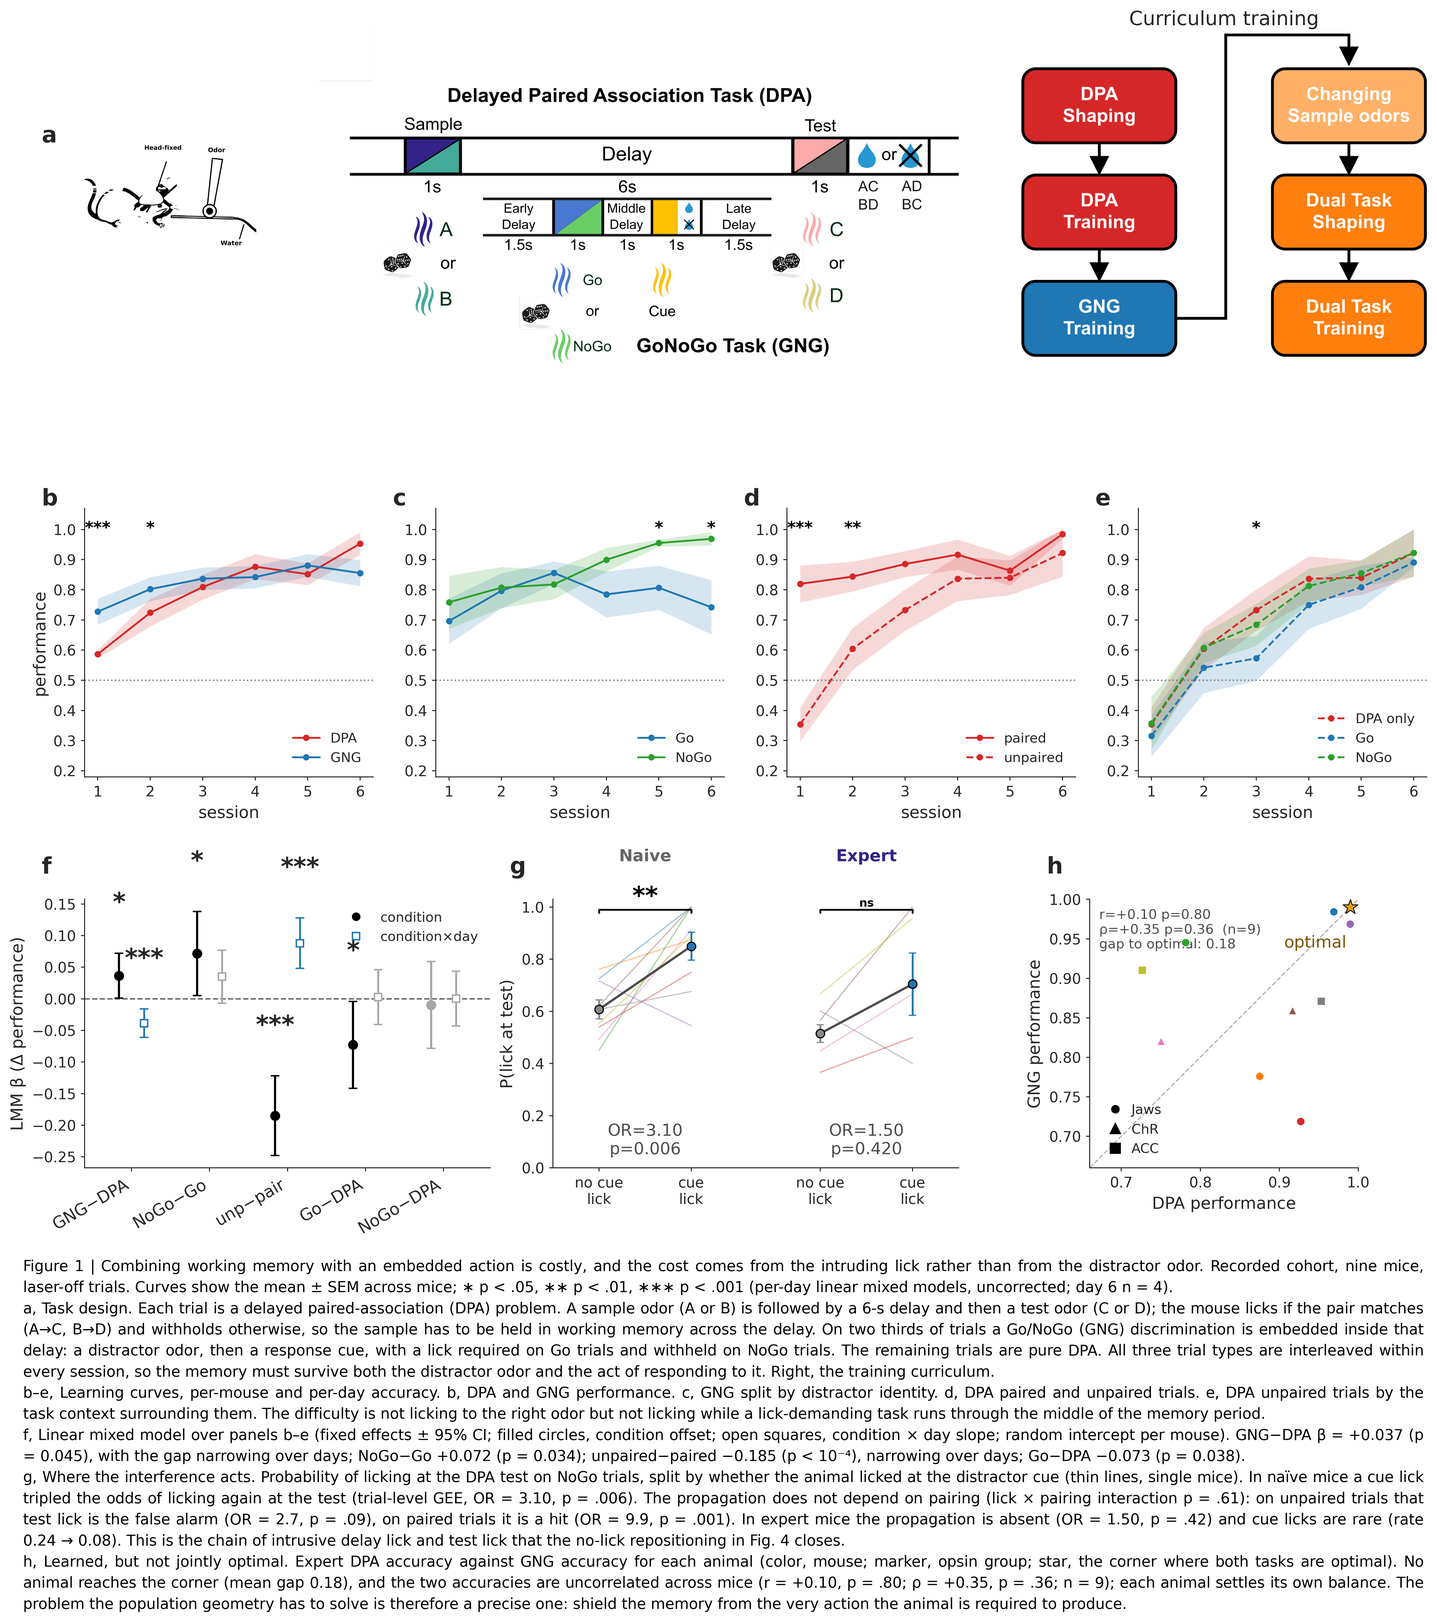
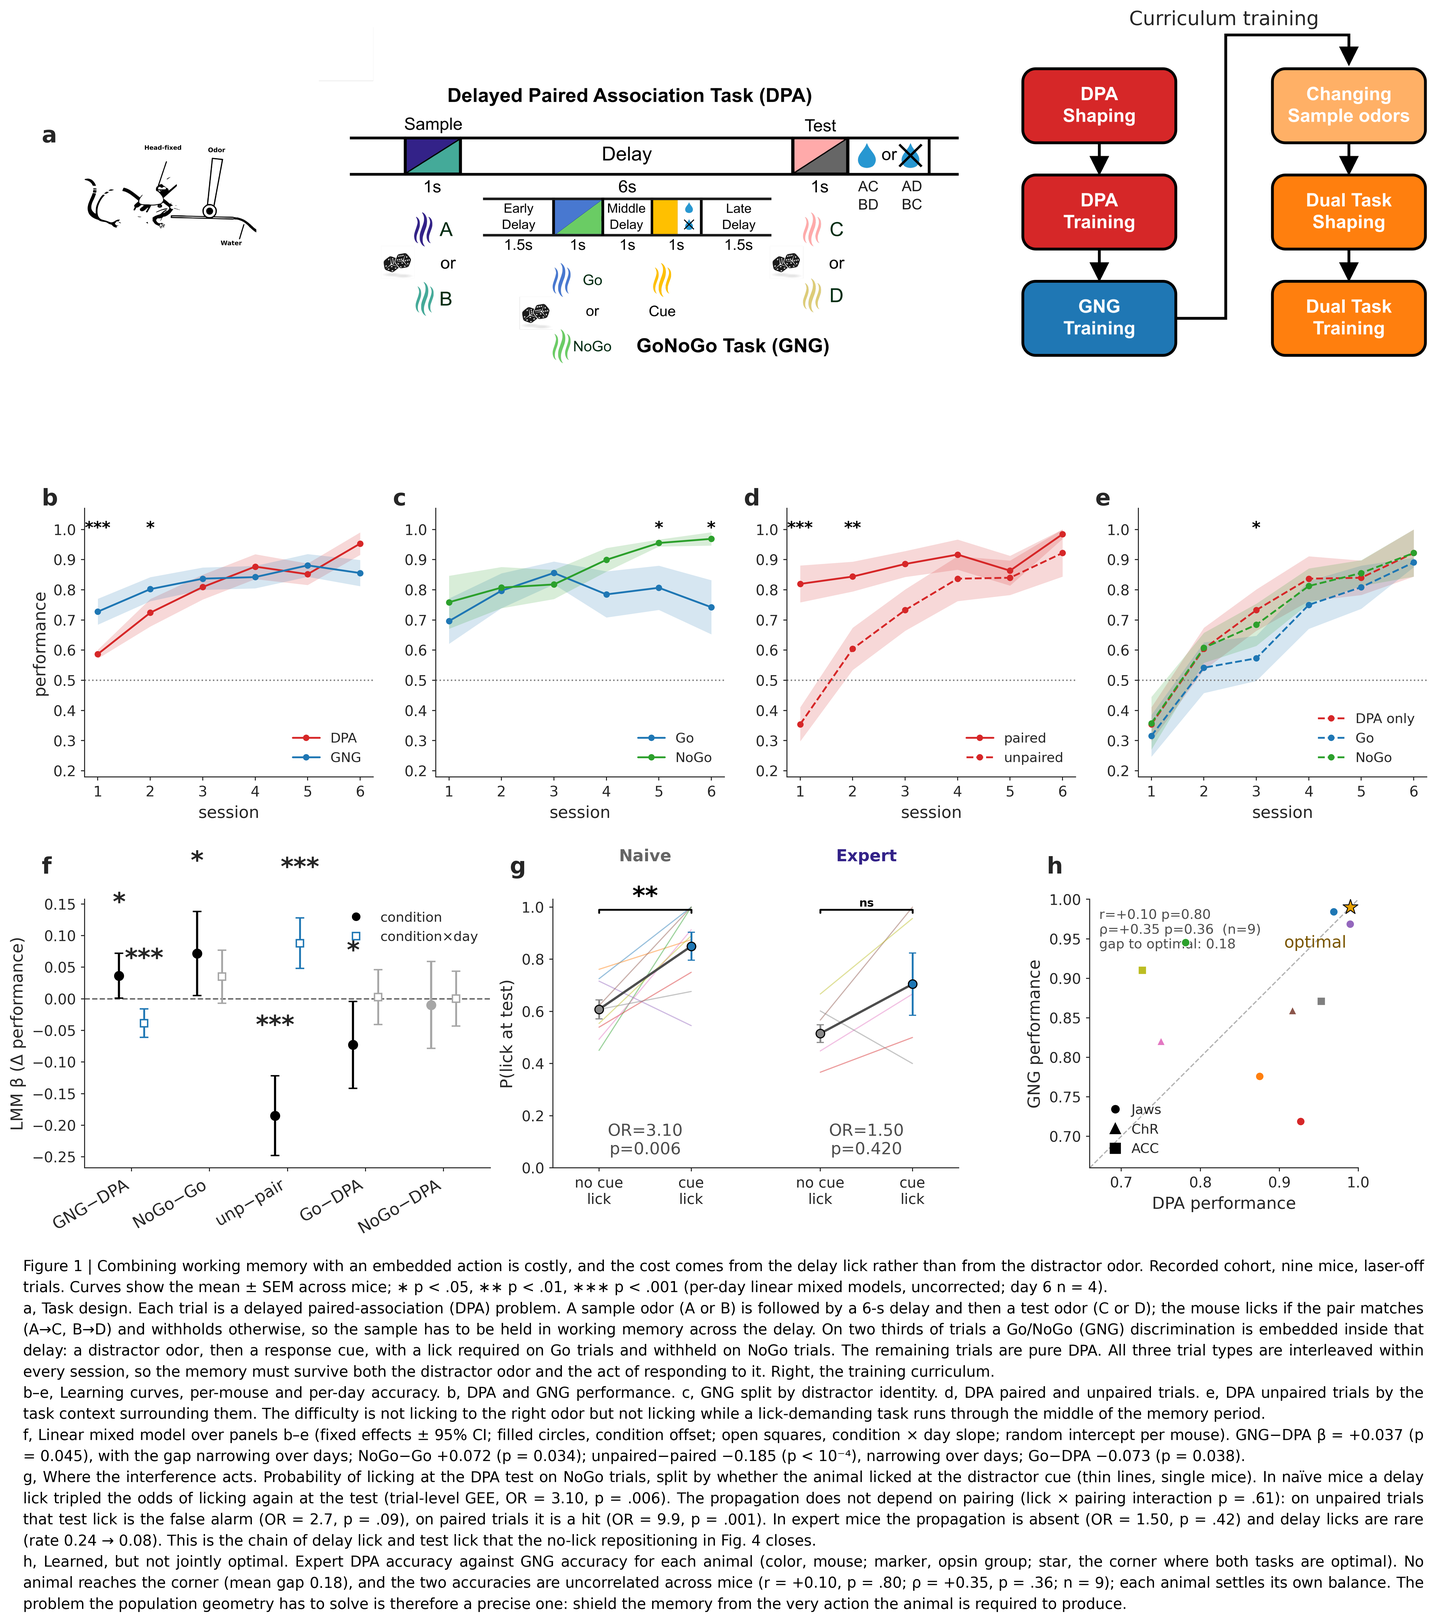
Draft v10.1: intro + §1 comment pass (7 threads) — intro general, full task description at §1 top, 'delay lick' naming canon
- Intro ¶3 reduced to the general statement (dual task = working-memory task + GNG
  discrimination in its delay; composition; imaging; per-animal companions); the full task
  description (DPA + GNG, reward, no punishment, trial mix, curriculum) now opens Results §1,
  which says 'trained on the dual task' rather than 'the DPA task'.
- Naming canon: 'delay lick' = any lick emitted during the delay (defined in §1); replaces
  intruding/intrusive lick and cue lick in the §1 heading, §1, intro closing, §4, Methods and
  the Fig. 1 legend + CAP_PARAS (Fig 1 re-rendered). docs/behavior.md carries the note.
- 'distractor performance' → 'GNG performance'. All statistics verbatim.

Claude-Session: https://claude.ai/code/session_01U5815xHXRaRQ7YCxMTgCsM

Changed region(s): [[0.0312, 0.9028, 0.9989, 0.9651], [0.0312, 0.7783, 0.8116, 0.8094]]

diff --git a/overlaps/fig_behavior_main.py b/overlaps/fig_behavior_main.py
@@ -386,7 +386,7 @@ for _ax, _L, _dy in [(axAm, 'A', 0.016), (axB, 'B', 0.016), (axC, 'C', 0.016),
 # ── CAPTION (justified, drawn below — same mechanism as Figs 2/3; replaces the old footnote) ──
 CAP_PARAS = [
     'Figure 1 | Combining working memory with an embedded action is costly, and the cost comes '
-    'from the intruding lick rather than from the distractor odor. Recorded cohort, nine mice, '
+    'from the delay lick rather than from the distractor odor. Recorded cohort, nine mice, '
     'laser-off trials. Curves show the mean ± SEM across mice; ∗ p < .05, ∗∗ p < .01, ∗∗∗ p < '
     '.001 (per-day linear mixed models, uncorrected; day 6 n = 4).',
     'a, Task design. Each trial is a delayed paired-association (DPA) problem. A sample odor (A '
@@ -406,10 +406,10 @@ CAP_PARAS = [
     '−0.185 (p < 10⁻⁴), narrowing over days; Go−DPA −0.073 (p = 0.038).',
     'g, Where the interference acts. Probability of licking at the DPA test on NoGo trials, split '
     'by whether the animal licked at the distractor cue (thin lines, single mice). In naïve mice '
-    'a cue lick tripled the odds of licking again at the test (trial-level GEE, OR = 3.10, p = '
+    'a delay lick tripled the odds of licking again at the test (trial-level GEE, OR = 3.10, p = '
     '.006). The propagation does not depend on pairing (lick × pairing interaction p = .61): on unpaired trials that test lick is the false alarm (OR = 2.7, p = .09), on paired trials it '
     'is a hit (OR = 9.9, p = .001). In expert mice the propagation is absent (OR = 1.50, p = .42) '
-    'and cue licks are rare (rate 0.24 → 0.08). This is the chain of intrusive delay lick and test lick that the no-lick repositioning in Fig. 4 closes.',
+    'and delay licks are rare (rate 0.24 → 0.08). This is the chain of delay lick and test lick that the no-lick repositioning in Fig. 4 closes.',
     'h, Learned, but not jointly optimal. Expert DPA accuracy against GNG accuracy for each '
     'animal (color, mouse; marker, opsin group; star, the corner where both tasks are optimal). '
     'No animal reaches the corner (mean gap 0.18), and the two accuracies are uncorrelated across '

diff --git a/docs/paper/results_draft.md b/docs/paper/results_draft.md
@@ -1,4 +1,15 @@
-# Compositional learning by geometric editing — main paper (draft v10)
+# Compositional learning by geometric editing — main paper (draft v10.1)
+
+> **v10.1 (2026-09-04, later): INTRO + §1 COMMENT PASS** — 7 activated threads. (1) Intro ¶3 is
+> now GENERAL (dual task = working-memory task + GNG discrimination in its delay; composition;
+> imaging; per-animal companions) and the full task description lives at the top of §1, which now
+> opens "We trained head-fixed mice (n = 9) on the dual task" (not "the DPA task") and decomposes
+> it into DPA + GNG with reward/no-punishment/trial mix/curriculum; (2) NAMING CANON "delay lick"
+> = any lick emitted during the delay (defined in §1 ¶3; the Go response or an unwarranted NoGo
+> lick) — replaces "intruding/intrusive lick", "cue lick" in the §1 heading ("…arises from delay
+> licks"), §1, intro closing, §4, Methods, Fig. 1 legend + CAP_PARAS (Fig 1 re-rendered);
+> (3) "distractor performance" → "GNG performance" (§1 ¶4); (4) ED lick figure request logged
+> again (assets: overlaps_lick_control.png, licks.py). ALL statistics verbatim.
 
 > **v10 (2026-09-04): INTRODUCTION COMMENT PASS** — 8 activated artifact comments (Leon, 2026-09-04)
 > on the Abstract + Introduction. Applied: (1) the opening is now about complex behavior running
@@ -163,24 +174,17 @@ infrastructure for a family of tasks [Yang 2019; Driscoll 2024]. Which of the tw
 natural acquisition of a composite task by a cortical population is not known.
 
 We addressed this with a task designed to force the composition: the dual task. Head-fixed
-mice (n = 9) performed two tasks at once, an olfactory working-memory task and an odor
-discrimination presented inside its delay. The working-memory component was a delayed paired
-association (DPA): a sample odor (A or B) had to be matched, after a 6-s delay, to a test odor
-(C or D), and a lick at the test was rewarded with water when the pair matched and went
-unrewarded otherwise; errors were never punished. The second component was a Go/NoGo (GNG)
-discrimination in the middle of that delay: a distractor odor followed by a response cue, at
-which the mouse had to lick for water on Go trials and withhold licking on NoGo trials, where
-a lick went unrewarded. In the dual task the discrimination was present on two thirds of the
-trials (Go and NoGo trials) and absent on the remaining third (DPA trials), and the three
-trial types were interleaved. The same delay period thus sometimes demanded an intervening
-action and sometimes did not, which makes the dual task an explicit composition of two
+mice (n = 9) performed an olfactory working-memory task while a Go/NoGo (GNG) odor
+discrimination was embedded in its delay, so that the same delay period sometimes demanded an
+intervening action and sometimes did not. The dual task is thus an explicit composition of two
 computations that have to run at the same time without one corrupting the other. Delay
 activity in mPFC is required for learning this class of olfactory working-memory task
-[Liu 2014]. Mice learned DPA and GNG separately before the two were combined, following a fixed curriculum (Methods), and we imaged prelimbic mPFC with
-two-photon microscopy in every dual task session, comparing the first sessions (naïve) with
-the later ones (expert) across a pseudo-population of 3,319 neurons. Every population-level
-result below is accompanied by the same measurement made inside individual animals, and we
-end with an optogenetic test of the input that supplies the learned change.
+[Liu 2014]. Mice had learned each component on its own before the two were combined
+(Methods), and we imaged prelimbic mPFC with two-photon microscopy in every dual task session,
+comparing the first sessions (naïve) with the later ones (expert) across a pseudo-population
+of 3,319 neurons. Every population-level result below is accompanied by the same measurement
+made inside individual animals, and we end with an optogenetic test of the input that supplies
+the learned change.
 
 Here we show that mPFC does not build a new representation for the dual task. The memory and
 the action are carried on nearly orthogonal axes of a low-dimensional subspace that is already
@@ -188,26 +192,28 @@ present, with the same axes, when dual task training begins. Learning the compos
 this scaffold in place and refines the alignment of its axes, without adding dimensions that
 we could detect. What learning does change is the position of the working-memory state, which
 moves along a pre-existing action axis into the half that suppresses licking. This shift
-tracks the disappearance of the interference from intrusive delay licks, predicts memory
+tracks the disappearance of the interfering delay licks, predicts memory
 performance animal by animal, and is itself moved by top-down input from the anterior
 cingulate cortex (ACC), a projection that is required while the composition is being learned.
 The geometry of the code is a fixed constraint; learning and top-down input both act on where
 the state sits within it.
 
-## The cost of the dual task arises from the intruding lick
+## The cost of the dual task arises from delay licks
 
-We trained head-fixed mice on the DPA task while imaging prelimbic mPFC with two-photon
-calcium imaging (Fig. 1a). On each trial, one of two sample odors (A or B) was followed by a
-6-s delay and then one of two test odors (C or D). Licking at the test was rewarded with water
-when the pair matched (A→C, B→D) and went unrewarded otherwise; errors were not punished. The
-mouse therefore had to hold the sample in working memory across the delay. In dual task
-sessions, two thirds of the trials carried a GNG discrimination inside that delay: a distractor
-odor, then a response cue, on which the mouse had to lick (Go trials) or withhold (NoGo
-trials). The remaining trials were pure DPA, and the three trial types were interleaved within
-every session. Mice reached the dual task through a fixed curriculum, learning DPA and then GNG
-on their own before the two were combined (Methods), and we imaged the same field of view in
-every dual task session. Throughout, we compare the first three dual task sessions, which we
-call naïve, with the later sessions, which we call expert (Methods).
+We trained head-fixed mice (n = 9) on the dual task while imaging prelimbic mPFC with
+two-photon calcium imaging (Fig. 1a). The dual task combines two components. The working-memory
+component is a delayed paired association (DPA): on each trial, one of two sample odors (A or B)
+was followed by a 6-s delay and then one of two test odors (C or D), and licking at the test
+was rewarded with water when the pair matched (A→C, B→D) and went unrewarded otherwise. Errors
+were never punished. The mouse therefore had to hold the sample in working memory across the
+delay. The second component is the GNG discrimination, placed inside that delay: a distractor
+odor followed by a response cue, at which the mouse had to lick for water (Go trials) or
+withhold licking (NoGo trials). Two thirds of the trials in every session carried the
+discrimination and one third did not (DPA trials), and the three trial types were interleaved.
+Mice reached the dual task through a fixed curriculum, learning DPA and then GNG on their own
+before the two were combined (Methods), and we imaged the same field of view in every dual
+task session. Throughout, we compare the first three dual task sessions, which we call naïve,
+with the later sessions, which we call expert (Methods).
 
 Both tasks improved over the six dual task sessions, and their accuracies converged (Fig. 1b;
 mixed-effects model, GNG−DPA condition β = +0.037, p = 0.045; condition × day β = −0.039,
@@ -220,23 +226,24 @@ In both tasks, then, what the animals learned was mainly when not to lick.
 
 This pointed to where the cost of composition lies. Unpaired DPA accuracy was depressed when
 the distractor called for a Go response (Fig. 1e; Go−DPA β = −0.073, p = 0.038) but not when it
-called for a NoGo response (NoGo−DPA p = 0.78). It was the intrusive lick, and not the
-distractor odor, that interfered with the memory. We next asked how the lick did its damage.
-On NoGo trials, a naïve animal that licked at the distractor cue, an intrusive delay lick, was
-three times as likely to lick at the test as well (Fig. 1g; trial-level regression, odds
-ratio OR = 3.10, p = 0.006). The effect did not depend on whether the trial was paired (lick ×
-pairing interaction p = 0.61): on unpaired trials that test lick is, by definition, a false
-alarm (direct estimate OR = 2.7, p = 0.09), and on paired trials it is a hit (OR = 9.9,
-p = 0.001). The interference therefore propagates through the response rather than degrading
-the memory. In expert animals the propagation was gone (OR = 1.50, p = 0.42), and the
-intrusive delay licks themselves had largely disappeared (cue-lick rate 0.24 → 0.08). Learning
-removed both the intruding action and its hold on the subsequent response. We note that
-Fig. 1g is a within-trial association; it identifies the route of the interference, not its
-cause.
+called for a NoGo response (NoGo−DPA p = 0.78). It was the lick in the middle of the delay, and
+not the distractor odor, that interfered with the memory. We refer to any lick emitted during
+the delay as a delay lick, whether it is the Go response the task requires or an unwarranted
+lick on a NoGo trial. We next asked how the delay lick did its damage. On NoGo trials, a naïve
+animal that emitted a delay lick at the distractor cue was three times as likely to lick at
+the test as well (Fig. 1g; trial-level regression, odds ratio OR = 3.10, p = 0.006). The
+effect did not depend on whether the trial was paired (lick × pairing interaction p = 0.61):
+on unpaired trials that test lick is, by definition, a false alarm (direct estimate OR = 2.7,
+p = 0.09), and on paired trials it is a hit (OR = 9.9, p = 0.001). The interference therefore
+propagates through the response rather than degrading the memory. In expert animals the
+propagation was gone (OR = 1.50, p = 0.42), and delay licks on NoGo trials had themselves
+largely disappeared (rate 0.24 → 0.08). Learning removed both the delay lick and its hold on
+the subsequent response. We note that Fig. 1g is a within-trial association; it identifies the
+route of the interference, not its cause.
 
 Even in expert mice the composition was imperfect. Across the nine animals, expert DPA and GNG
 accuracy were unrelated (Fig. 1h; Pearson r = +0.10, p = 0.80; Spearman ρ = +0.35, p = 0.36):
-an animal's memory performance did not predict its distractor performance, and none reached
+an animal's memory performance did not predict its GNG performance, and none reached
 the corner where both tasks are performed optimally (mean shortfall ≈ 0.18; mean DPA 0.88, GNG
 0.87). In naïve mice the two accuracies had still co-varied (r ≈ 0.66–0.74). The two tasks did
 not, therefore, trade off against each other at the level of individual animals; rather, each
@@ -394,7 +401,7 @@ Second, learning moved the working-memory state along that same axis. The expert
 state sat further into the no-lick half of the choice axis than the naïve state (Fig. 4b; mixed
 model over 9 mice and 36 observations, β = −0.744, p = 0.046; per-animal Wilcoxon p = 0.098).
 This is a set-point shift away from the lick boundary, and it suppresses precisely the
-intrusive-lick to false-alarm chain that learning removes behaviorally (Fig. 1g). The shift
+delay-lick to false-alarm chain that learning removes behaviorally (Fig. 1g). The shift
 was numerically larger for sample A than for sample B (ΔA ≈ −1.42, p = 0.098; ΔB ≈ −0.07,
 p = 0.91). The direct paired comparison across the same nine mice, however, was not significant
 in any of six axis × normalization builds (p = 0.055–0.203), and the difference is not a
@@ -505,10 +512,10 @@ per group. Random-effect variances near the boundary make per-day p-values mildl
 anti-conservative, as noted in the text. Trial-level associations (Fig. 1g; history effects,
 ED 2) used logistic GEEs clustered by mouse (exchangeable working correlation), fit separately
 per stage. Fig. 1g models the probability of licking at the DPA test on NoGo trials as a
-function of the intrusive cue lick (the pure delay-period lick variable); a lick × pairing
+function of the delay lick at the distractor cue (the pure delay-period lick variable); a lick × pairing
 interaction term tests whether the propagation differs between paired and unpaired trials (it
 does not, p = 0.61, so the pooled estimate applies to the unpaired arm, where the test lick is
-the false alarm), and the paired arm is the propagation control (a cue lick there predicts a
+the false alarm), and the paired arm is the propagation control (a delay lick there predicts a
 hit — incompatible with memory corruption, diagnostic of response propagation). The panel was rebuilt 2026-09-01: the
 original build's predictor pooled cue and test licks, which is near-circular with performance.
 Across-animal relationships are Pearson/Spearman correlations over n = 9 mice. All tests
@@ -730,7 +737,7 @@ bit-exact tensor reproduction requires seeding, flagged for the deposition.)
 > American English + Go/NoGo terminology since v9, 2026-09-04; Fig. 5, modelling, in preparation).
 
 Figure 1 | Combining working memory with an embedded action is costly, and the cost comes from the
-intruding lick rather than from the distractor odor. Recorded cohort, nine mice, laser-off trials.
+delay lick rather than from the distractor odor. Recorded cohort, nine mice, laser-off trials.
 Curves show the mean ± SEM across mice; ∗ p < .05, ∗∗ p < .01, ∗∗∗ p < .001 (per-day linear mixed
 models, uncorrected; day 6 n = 4).
 
@@ -754,12 +761,12 @@ with the gap narrowing over days; NoGo−Go +0.072 (p = 0.034); unpaired−paire
 narrowing over days; Go−DPA −0.073 (p = 0.038).
 
 g, Where the interference acts. Probability of licking at the DPA test on NoGo trials, split by
-whether the animal licked at the distractor cue (thin lines, single mice). In naïve mice a cue lick
+whether the animal licked at the distractor cue (thin lines, single mice). In naïve mice a delay lick
 tripled the odds of licking again at the test (trial-level GEE, OR = 3.10, p = .006). The
 propagation does not depend on pairing (lick × pairing interaction p = .61): on unpaired trials that
 test lick is the false alarm (OR = 2.7, p = .09), on paired trials it is a hit (OR = 9.9, p = .001).
-In expert mice the propagation is absent (OR = 1.50, p = .42) and cue licks are rare (rate 0.24 →
-0.08). This is the chain of intrusive delay lick and test lick that the no-lick repositioning in
+In expert mice the propagation is absent (OR = 1.50, p = .42) and delay licks are rare (rate 0.24 →
+0.08). This is the chain of delay lick and test lick that the no-lick repositioning in
 Fig. 4 closes.
 
 h, Learned, but not jointly optimal. Expert DPA accuracy against GNG accuracy for each animal
@@ -1172,7 +1179,7 @@ expression, imaging FOV + per-mouse cell counts, laser-power / opsin titration.
   the test lick — cue-only OR = 0.93 n.s.). The panel now shows the clean propagation:
   predictor = the cue lick (`odr_choice`), outcome = P(lick at test); naïve OR = 3.10
   p = .006 ∗∗, expert OR = 1.50 p = .42 n.s.; FA arm (unpaired) OR = 2.73 p = .090, paired arm
-  OR = 9.9 p = .001 toward a hit (the anti-corruption control); cue-lick rate 0.24 → 0.08.
+  OR = 9.9 p = .001 toward a hit (the anti-corruption control); delay-lick rate 0.24 → 0.08.
   §1 header, §2/§4/abstract clauses, caption, Methods and behavior.md all recast to
   "propagates to false alarms". Downstream Discussion clause updated.
 - **Fig. 2a mid-delay bracket label (audit):** the panel/caption say "5.5–6.3 s" but the sampled

diff --git a/docs/behavior.md b/docs/behavior.md
@@ -243,7 +243,9 @@ Publication-ready assembly (recorded cohort, laser OFF, 9 mice; loads the non-la
 - **B–E** — the five learning curves from `fig_behavior_learning.py` (helpers copied per repo
   convention): B DPA-vs-GNG, C Go-vs-NoGo, D paired-vs-unpaired, E unpaired-by-task; per-day LMM stars.
 - **F** — LMM effect-size forest (condition + condition×day βs).
-- **G** — **the intrusive lick propagates to the test** (REBUILT 2026-09-01 after the predictor
+- **G** — **the intrusive lick propagates to the test** (PAPER NAMING CANON since 2026-09-04: the
+  manuscript calls these **delay licks** — any lick emitted during the delay; "intrusive/intruding
+  lick" and "cue lick" are retired in the text and legends) (REBUILT 2026-09-01 after the predictor
   audit; user framing: the delay lick leads to FALSE ALARMS — the chain the Fig-4 push suppresses):
   NoGo trials, P(lick at test) split by the CUE lick (`odr_choice`, the pure delay lick), Naive vs
   Expert, per-mouse lines + mean±SEM, GEE(test-lick ~ cue-lick, clustered by mouse):
